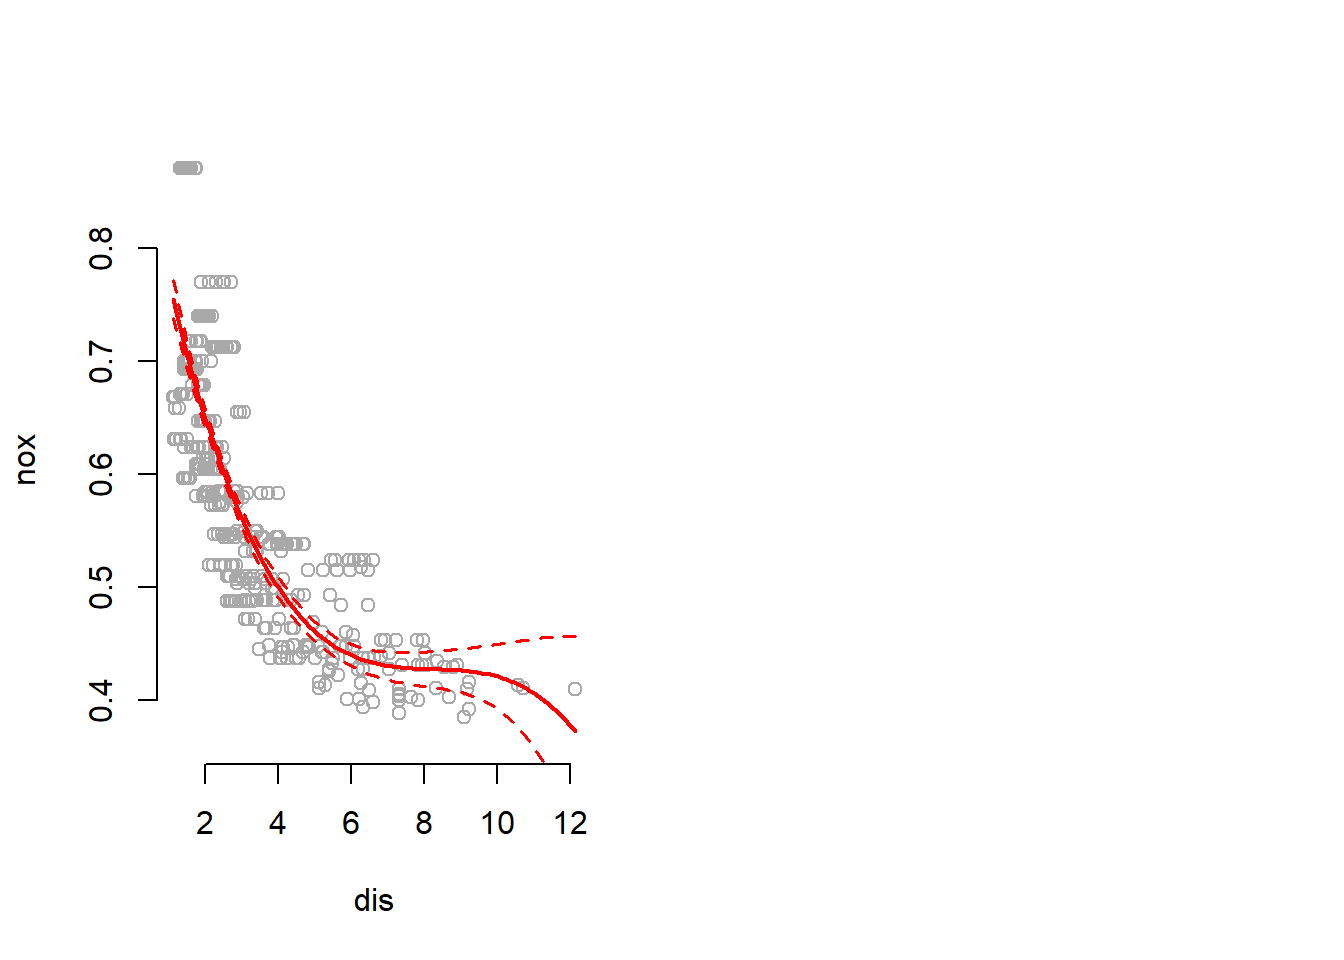
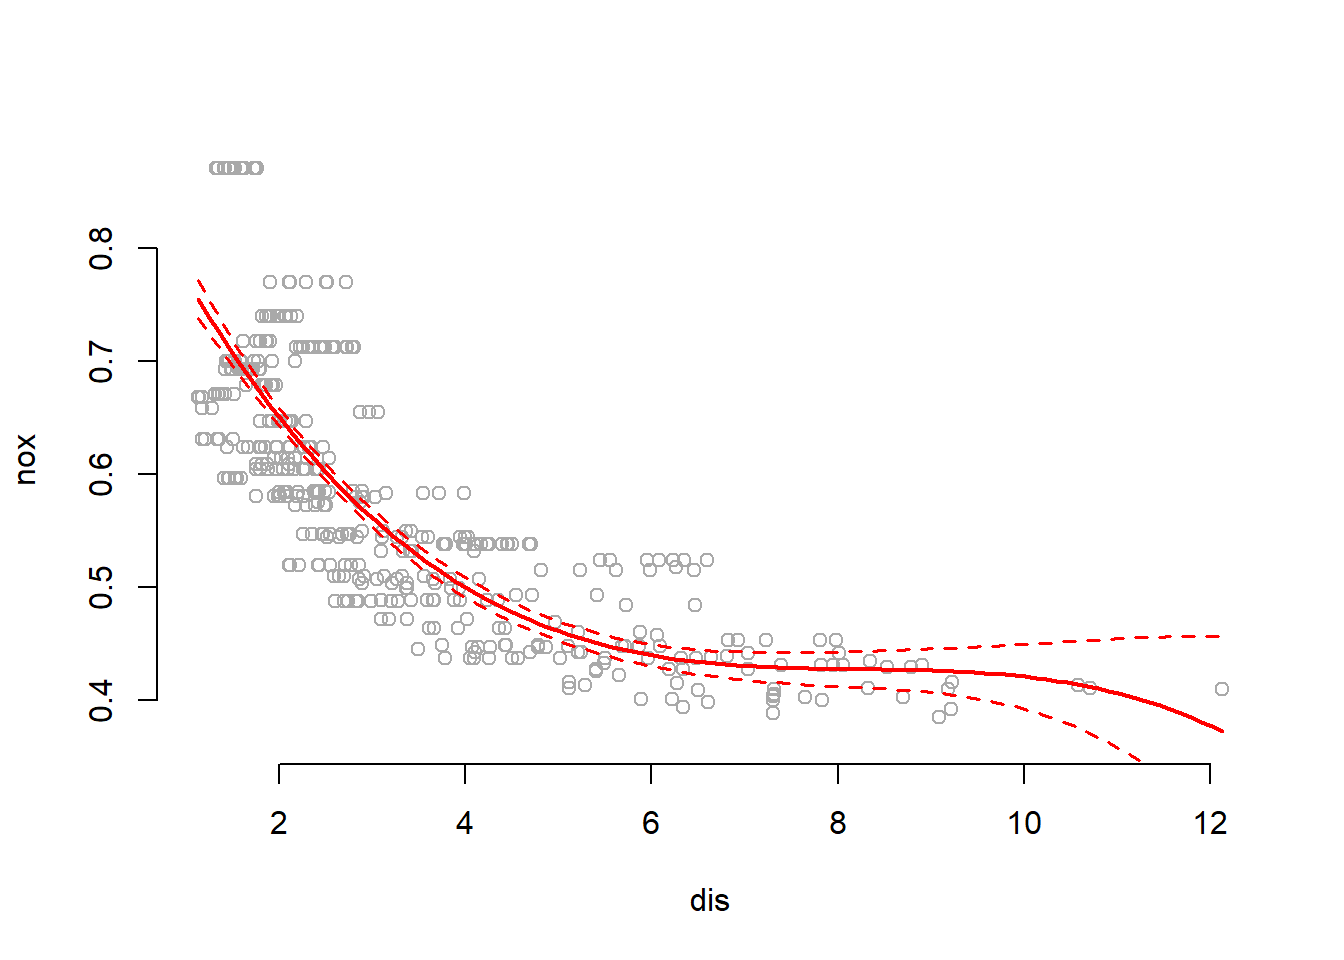
solutions corrected

diff --git a/solutions7.html b/solutions7.html
@@ -396,9 +396,8 @@ $(document).ready(function () {
 <p>Load Wage dataset. Keep an array of all cross-validation errors. We are performing K-fold cross validation with <span class="math inline">\(K=10\)</span>.</p>
 <pre class="r"><code>rm(list = ls())
 set.seed(1)
-library(ISLR)</code></pre>
-<pre><code>## Warning: package &#39;ISLR&#39; was built under R version 3.4.1</code></pre>
-<pre class="r"><code>library(boot)
+library(ISLR)
+library(boot)
 
 # container of test errors
 cv.MSE &lt;- NA
@@ -425,7 +424,7 @@ abline(h = min(cv.MSE) + sd(cv.MSE) , lty = &quot;dotted&quot;)
 
 # where is the minimum
 points( x = which.min(cv.MSE), y = min(cv.MSE), col = &quot;red&quot;, pch = &quot;X&quot;, cex = 1.5 )</code></pre>
-<p><img src="solutions7_files/figure-html/unnamed-chunk-2-1.png" width="672" /></p>
+<p><img src="solutions7_files/figure-html/unnamed-chunk-2-1.png" width="672" style="display: block; margin: auto;" /></p>
 <p>We fit the models again successively with higher powers of age to perfom anova.</p>
 <pre class="r"><code># container for the models we will fit
 models &lt;- vector(&quot;list&quot;, length(cv.MSE))
@@ -506,7 +505,7 @@ abline(h = min(cv.error, na.rm = TRUE) + sd(cv.error, na.rm = TRUE) , lty = &quo
 
 # highlight minimum
 points( x = which.min(cv.error), y = min(cv.error, na.rm = TRUE), col = &quot;red&quot;, pch = &quot;X&quot;, cex = 1.5 )</code></pre>
-<p><img src="solutions7_files/figure-html/unnamed-chunk-5-1.png" width="672" /></p>
+<p><img src="solutions7_files/figure-html/unnamed-chunk-5-1.png" width="672" style="display: block; margin: auto;" /></p>
 <p>Cross validation approximates that the test error is minimized at <span class="math inline">\(k=8\)</span> knots. The most parsimonious model within <span class="math inline">\(1sd\)</span> of the minimum has <span class="math inline">\(k=4\)</span> knots and, thus, splits the data into 5 distinct regions.</p>
 <p>We now train the entire data with step function using <span class="math inline">\(4\)</span> cuts and plot it.</p>
 <pre class="r"><code>lm.fit &lt;-  glm(wage ~ cut(age, 4), data = Wage)
@@ -518,7 +517,7 @@ lines(age.grid, lm.pred$fit, col = &quot;red&quot;, lwd = 2)
 matlines(age.grid, cbind( lm.pred$fit + 2* lm.pred$se.fit,
                           lm.pred$fit - 2* lm.pred$se.fit),
          col = &quot;red&quot;, lty =&quot;dashed&quot;)</code></pre>
-<p><img src="solutions7_files/figure-html/unnamed-chunk-6-1.png" width="672" /></p>
+<p><img src="solutions7_files/figure-html/unnamed-chunk-6-1.png" width="672" style="display: block; margin: auto;" /></p>
 </div>
 <div id="q2" class="section level4">
 <h4>Q2</h4>
@@ -560,12 +559,8 @@ deviance(m3)</code></pre>
 <div id="gams" class="section level4">
 <h4>GAMs</h4>
 <p>We can’t fit splines to factors but we can fit a model with a spline one the continuous variable and add the other predictors.</p>
-<pre class="r"><code>library(gam)</code></pre>
-<pre><code>## Warning: package &#39;gam&#39; was built under R version 3.4.1</code></pre>
-<pre><code>## Loading required package: splines</code></pre>
-<pre><code>## Loading required package: foreach</code></pre>
-<pre><code>## Loaded gam 1.14-4</code></pre>
-<pre class="r"><code>m4 &lt;-  gam(wage ~ maritl + jobclass + s(age,4), data = Wage)
+<pre class="r"><code>library(gam)
+m4 &lt;-  gam(wage ~ maritl + jobclass + s(age,4), data = Wage)
 deviance(m4)</code></pre>
 <pre><code>## [1] 4476501</code></pre>
 <pre class="r"><code>anova(m1, m2, m3, m4)</code></pre>
@@ -591,6 +586,16 @@ deviance(m4)</code></pre>
 set.seed(1)
 library(MASS)
 attach(Boston)</code></pre>
+<pre><code>## The following object is masked from Wage (pos = 4):
+## 
+##     age</code></pre>
+<pre><code>## The following objects are masked from Boston (pos = 7):
+## 
+##     age, black, chas, crim, dis, indus, lstat, medv, nox, ptratio,
+##     rad, rm, tax, zn</code></pre>
+<pre><code>## The following object is masked from Wage (pos = 11):
+## 
+##     age</code></pre>
 <ol style="list-style-type: decimal">
 <li>Use the <code>poly()</code> function to fit a cubic polynomial regression to predict <code>nox</code> using <code>dis</code>. Report the regression output, and plot the resulting data and polynomial fits.</li>
 </ol>
@@ -620,6 +625,7 @@ summary(m1)</code></pre>
 dis.grid &lt;-  seq(from = dislim[1], to = dislim[2], length.out = 100)
 lm.pred &lt;-  predict(m1, list(dis = dis.grid), se = TRUE)
 
+par(mfrow = c(1,1))
 plot(nox ~ dis, col = &quot;darkgrey&quot;, bty =&quot;n&quot;, 
      ylim = c( min(lm.pred$fit) - 2.5* min(lm.pred$se.fit), 
                max(lm.pred$fit) + 2.5* max(lm.pred$se.fit) ))
@@ -627,7 +633,7 @@ lines(x = dis.grid, y = lm.pred$fit, col = &quot;red&quot;, lwd = 2)
 matlines(x = dis.grid, y = cbind(lm.pred$fit + 2* lm.pred$se.fit,
                                  lm.pred$fit - 2* lm.pred$se.fit) 
          , col = &quot;red&quot;, lwd = 1.5, lty = &quot;dashed&quot;)</code></pre>
-<p><img src="solutions7_files/figure-html/unnamed-chunk-12-1.png" width="672" /></p>
+<p><img src="solutions7_files/figure-html/unnamed-chunk-12-1.png" width="672" style="display: block; margin: auto;" /></p>
 <p>Summary shows that all polynomial terms are significant while predicting <code>nox</code> using <code>dis</code>. Plot shows a smooth curve fitting the data fairly well.</p>
 <ol start="2" style="list-style-type: decimal">
 <li>Plot the polynomial fits for a range of different polynomial degrees (say, from 1 to 10), and report the associated residual sum of squares.</li>
@@ -673,8 +679,8 @@ result</code></pre>
 <pre class="r"><code>plot(result ~ seq(1,10), type = &quot;b&quot;, pch = 19, bty = &quot;n&quot;, xlab = &quot;powers of dist to empl. center&quot;,
      ylab = &quot;cv error&quot;)
 abline(h = min(cv.error) + sd(cv.error), col = &quot;red&quot;, lty = &quot;dashed&quot;)</code></pre>
-<p><img src="solutions7_files/figure-html/unnamed-chunk-14-1.png" width="672" /></p>
-<p>Depending on how disciplined an approach we take, we would pick either no polynomial or <code>dis</code> squared.</p>
+<p><img src="solutions7_files/figure-html/unnamed-chunk-14-1.png" width="672" style="display: block; margin: auto;" /></p>
+<p>Based on cross-validation we would pick <code>dis</code> squared.</p>
 <ol start="4" style="list-style-type: decimal">
 <li>Use the <code>bs()</code> function to fit a regression spline to predict <code>nox</code> using <code>dis</code>. Report the output for the fit using four degrees of freedom. How did you choose the knots? Plot the resulting fit.</li>
 </ol>
@@ -707,6 +713,7 @@ summary(m4)</code></pre>
 ## F-statistic: 218.6 on 6 and 499 DF,  p-value: &lt; 2.2e-16</code></pre>
 <pre class="r"><code># plot results
 preds &lt;-  predict(m4, list(dis = dis.grid), se = TRUE)
+par(mfrow=c(1, 1))
 plot(nox ~ dis, col = &quot;darkgrey&quot;, bty = &quot;n&quot;, ylim = c(0.3, .8))
 # all lines at once
 matlines( dis.grid,
@@ -714,7 +721,7 @@ matlines( dis.grid,
                  preds$fit + 2* preds$se.fit,
                  preds$fit - 2* preds$se.fit),
           col = &quot;black&quot;, lwd = 2, lty = c(&quot;solid&quot;, &quot;dashed&quot;, &quot;dashed&quot;))</code></pre>
-<p><img src="solutions7_files/figure-html/unnamed-chunk-15-1.png" width="672" /></p>
+<p><img src="solutions7_files/figure-html/unnamed-chunk-15-1.png" width="672" style="display: block; margin: auto;" /></p>
 <p>The summary shows that all terms in spline fit are significant except the first. The plot shows that the spline fits data well. The data fit at the extremes, when <span class="math inline">\(dis&gt;9\)</span> is driven by very very few observations.</p>
 <ol start="5" style="list-style-type: decimal">
 <li>Now fit a regression spline for a range of degrees of freedom, and plot the resulting fits and report the resulting RSS. Describe the results obtained.</li>
@@ -740,11 +747,14 @@ box[-c(1, 2)]</code></pre>
 </ol>
 <pre class="r"><code>rm(list = ls())
 set.seed(1)
-library(leaps)</code></pre>
-<pre><code>## Warning: package &#39;leaps&#39; was built under R version 3.4.1</code></pre>
-<pre class="r"><code>attach(College)
-
-# train/test split row index numbers
+library(leaps)
+attach(College)</code></pre>
+<pre><code>## The following objects are masked from College (pos = 7):
+## 
+##     Accept, Apps, Books, Enroll, Expend, F.Undergrad, Grad.Rate,
+##     Outstate, P.Undergrad, perc.alumni, Personal, PhD, Private,
+##     Room.Board, S.F.Ratio, Terminal, Top10perc, Top25perc</code></pre>
+<pre class="r"><code># train/test split row index numbers
 train &lt;-  sample( length(Outstate), length(Outstate)/2)
 test &lt;-  -train
 
@@ -794,7 +804,7 @@ gam.fit &lt;-  gam(Outstate ~ Private + s(Room.Board, df=2) +
                 data=College.train)
 par(mfrow=c(2, 3))
 plot(gam.fit, se=TRUE, col=&quot;blue&quot;)</code></pre>
-<p><img src="solutions7_files/figure-html/unnamed-chunk-19-1.png" width="672" /></p>
+<p><img src="solutions7_files/figure-html/unnamed-chunk-19-1.png" width="672" style="display: block; margin: auto;" /></p>
 <ol start="3" style="list-style-type: decimal">
 <li>Evaluate the model obtained on the test set, and explain the results obtained.</li>
 </ol>

diff --git a/day7.html b/day7.html
@@ -607,10 +607,8 @@ legend(&quot;topright&quot;, legend = c(&quot;Span=0.2&quot;, &quot;Span=0.5&quo
 <p>For splines, we can fit a GAM with <code>lm()</code> when an appropriate basis functions can be used.</p>
 <pre class="r"><code>gam1 &lt;- lm(wage ~ bs(year, 4) + bs(age, 5) + education, data = Wage)</code></pre>
 <p>However, the <code>gam</code> package offers a general solution to fitting GAMs and is especially useful when splines cannot be easily expressed in terms of basis functions. Here, we fit natural splines on age and year. Something that could not easily be expressed as a basis function.</p>
-<pre class="r"><code>library(gam)</code></pre>
-<pre><code>## Warning: package &#39;gam&#39; was built under R version 3.4.1</code></pre>
-<pre><code>## Loaded gam 1.14-4</code></pre>
-<pre class="r"><code># gam with natural splines for year and age
+<pre class="r"><code>library(gam)
+# gam with natural splines for year and age
 gam.m3 &lt;- gam(wage ~ ns(year, 4) + ns(age, 5) + education, data = Wage)</code></pre>
 <p>We can use the <code>plot()</code> function as well as <code>plot.gam()</code> to plot our results. The difference between cubic splines and natural splines fit to age and education is very small.</p>
 <pre class="r"><code>par(mfrow = c(1, 3), mar = c(4.5, 4.5, 1, 1), oma = c(0, 0, 4, 0))

diff --git a/day6.html b/day6.html
@@ -447,14 +447,9 @@ y &lt;- data2$IMMBRIT</code></pre>
 <div id="ridge-regression" class="section level4">
 <h4>Ridge Regression</h4>
 <p>The <code>glmnet</code> package provides functionality to fit ridge regression and lasso models. We load the package and call <code>glmnet()</code> to perform ridge regression.</p>
-<pre class="r"><code>library(glmnet)</code></pre>
-<pre><code>## Loading required package: Matrix</code></pre>
-<pre><code>## Loading required package: foreach</code></pre>
-<pre><code>## foreach: simple, scalable parallel programming from Revolution Analytics
-## Use Revolution R for scalability, fault tolerance and more.
-## http://www.revolutionanalytics.com</code></pre>
-<pre><code>## Loaded glmnet 2.0-10</code></pre>
-<pre class="r"><code># tuning parameter
+<pre class="r"><code>library(glmnet)
+
+# tuning parameter
 grid &lt;- 10^seq(4, -2, length = 100)
 plot(grid, bty = &quot;n&quot;, pch = 19,
      main = expression(paste(&quot;Grid of Tuning Parameters &quot;, lambda)))</code></pre>

diff --git a/day4.html b/day4.html
@@ -579,9 +579,9 @@ lines( x = seq(1,7), y = cv.error.10, col = &quot;red&quot;, lty = &quot;dashed&
 <div id="the-bootstrap" class="section level3">
 <h3>The Bootstrap</h3>
 <p>In order to perform bootstrap analysis, we first create an <code>alpha.fn()</code> for estimating <span class="math inline">\(\alpha\)</span> You can think of <span class="math inline">\(\alpha\)</span> as a proxy for investment risk (see p. 187 for more details).</p>
-<pre class="r"><code>library(ISLR)</code></pre>
-<pre><code>## Warning: package &#39;ISLR&#39; was built under R version 3.4.1</code></pre>
-<pre class="r"><code># function on investment risk
+<pre class="r"><code>library(ISLR)
+
+# function on investment risk
 alpha.fn &lt;- function(data, index){
   X &lt;- data$X[index]
   Y &lt;- data$Y[index]

diff --git a/day5.html b/day5.html
@@ -494,9 +494,9 @@ df$Cons &lt;- NULL</code></pre>
 <div id="best-subset-selection" class="section level3">
 <h3>Best Subset Selection</h3>
 <p>We use the <code>regsubsets()</code> function to identify the best model based on subset selection quantified by the residual sum of squares (RSS) for each model.</p>
-<pre class="r"><code>library(leaps)</code></pre>
-<pre><code>## Warning: package &#39;leaps&#39; was built under R version 3.4.1</code></pre>
-<pre class="r"><code># run best subset selection
+<pre class="r"><code>library(leaps)
+
+# run best subset selection
 regfit.full &lt;- regsubsets(IMMBRIT ~ ., data = df)
 summary(regfit.full)</code></pre>
 <pre><code>## Subset selection object

diff --git a/solutions3.html b/solutions3.html
@@ -425,7 +425,14 @@ summary(Auto)</code></pre>
 ##  chevrolet chevette:  4  
 ##  (Other)           :365</code></pre>
 <pre class="r"><code>attach(Auto)</code></pre>
-<pre><code>## The following object is masked from Wage:
+<pre><code>## The following object is masked from Wage (pos = 3):
+## 
+##     year</code></pre>
+<pre><code>## The following objects are masked from Auto (pos = 7):
+## 
+##     acceleration, cylinders, displacement, horsepower, mpg, name,
+##     origin, weight, year</code></pre>
+<pre><code>## The following object is masked from Wage (pos = 10):
 ## 
 ##     year</code></pre>
 <pre class="r"><code>mpg01 &lt;- ifelse( mpg &gt; median(mpg), yes = 1, no = 0)

diff --git a/MCLassoRidge.html b/MCLassoRidge.html
@@ -445,7 +445,7 @@ for (j in 1:length(rho)){
 # how long did the MC take?
 end.time &lt;- Sys.time()
 end.time-start.time</code></pre>
-<pre><code>## Time difference of 1.237458 mins</code></pre>
+<pre><code>## Time difference of 1.761711 mins</code></pre>
 <p>We now take column means to get the average MSE over the <code>n.sim</code> simulations.</p>
 <pre class="r"><code>apply(l.mse,2,mean)</code></pre>
 <pre><code>## [1] 7.364181 5.687029 3.720381</code></pre>
